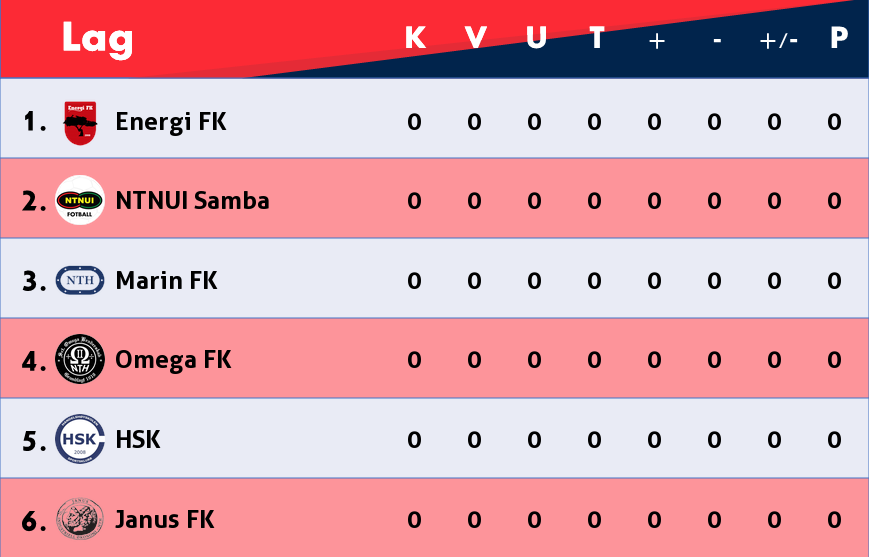
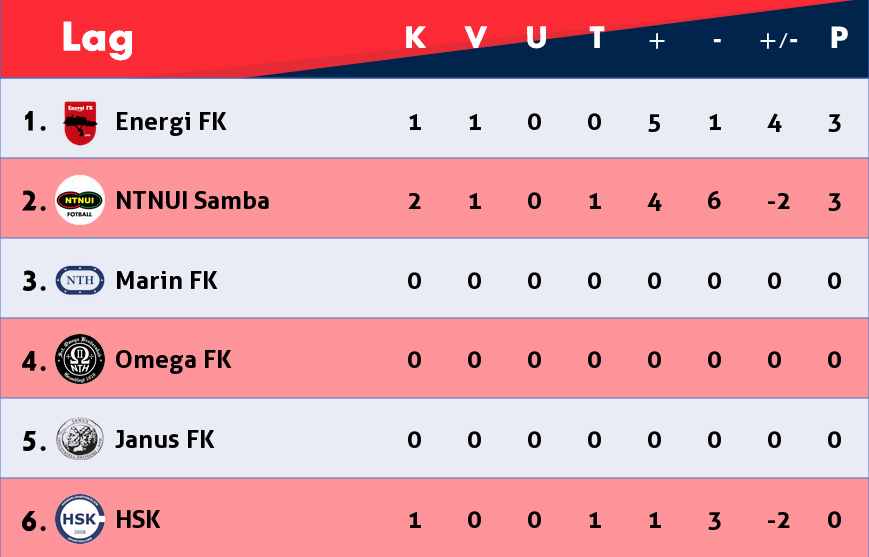
Updated table

diff --git a/Scripts/TableGenerator.py b/Scripts/TableGenerator.py
@@ -6,6 +6,7 @@ from PIL import Image
 from PIL import ImageFont
 from PIL import ImageDraw
 from datetime import date
+import UpdateResults as ur
 
 nteams = 6
 season = "V23"
@@ -153,7 +154,9 @@ def updateTime(avd):
     img.save(f'C:/Users/Simen/tables2/tables/Scripts/Output/{season}/Avd_' + avd.upper() + '_Update.png')
 
 def main(avd):
-    df = readFromWeb(avd)
+    ur.main(avd)
+    #df = readFromWeb(avd)
+    df = ur.getMatches(avd)
     dataList = locateData(df)
     teamResults, teamNames = getData(dataList)
     sortedTeamResults = sortTeams(teamResults, teamNames)

diff --git a/Scripts/test.py b/Scripts/test.py
@@ -1,19 +1,10 @@
 import numpy as np
-import random
+import pandas as pd
 
-a = np.array([4,3,5,2,4,3])
-c = np.zeros(len(a))
+np.random.seed(1)
+df = pd.DataFrame(np.random.randn(8, 4),
+                  columns=['A', 'B', 'C', 'D'])
 
-y_min = a[0]
-y_c = y_min
-
-for i in range(len(a)-1):
-    y_min = min(y_min, a[i])
-    if a[i] >= a[i-1]:
-        c[i+1] = c[i]+y_c
-    else:
-        y_c = y_min
-        c[i+1] = max(c[i],y_min*(i+2))
-    print(y_min*(i+2))
-print(c)
-print(y_min)
+print(df)
+df.rename(columns=[0,1,2,3])
+print(df)

diff --git a/Scripts/main.py b/Scripts/main.py
@@ -1,4 +1,4 @@
-from TableGenerator import main
+import TableGenerator as tg
 from push import git_push
 
 avds = "abcd"
@@ -8,11 +8,11 @@ while end.lower() == "n":
     avd = input("What table to update? ").lower()
     if avd == "all":
         for avd in avds:
-            main(avd)
+            tg.main(avd)
             print(f"Table {avd.upper()} updated\n")
         end = "y"
     elif avd in avds:
-        main(avd)
+        tg.main(avd)
         print(f"Table {avd.upper()} updated\n")
         end = input("Done? [y/n] ")
     else:
